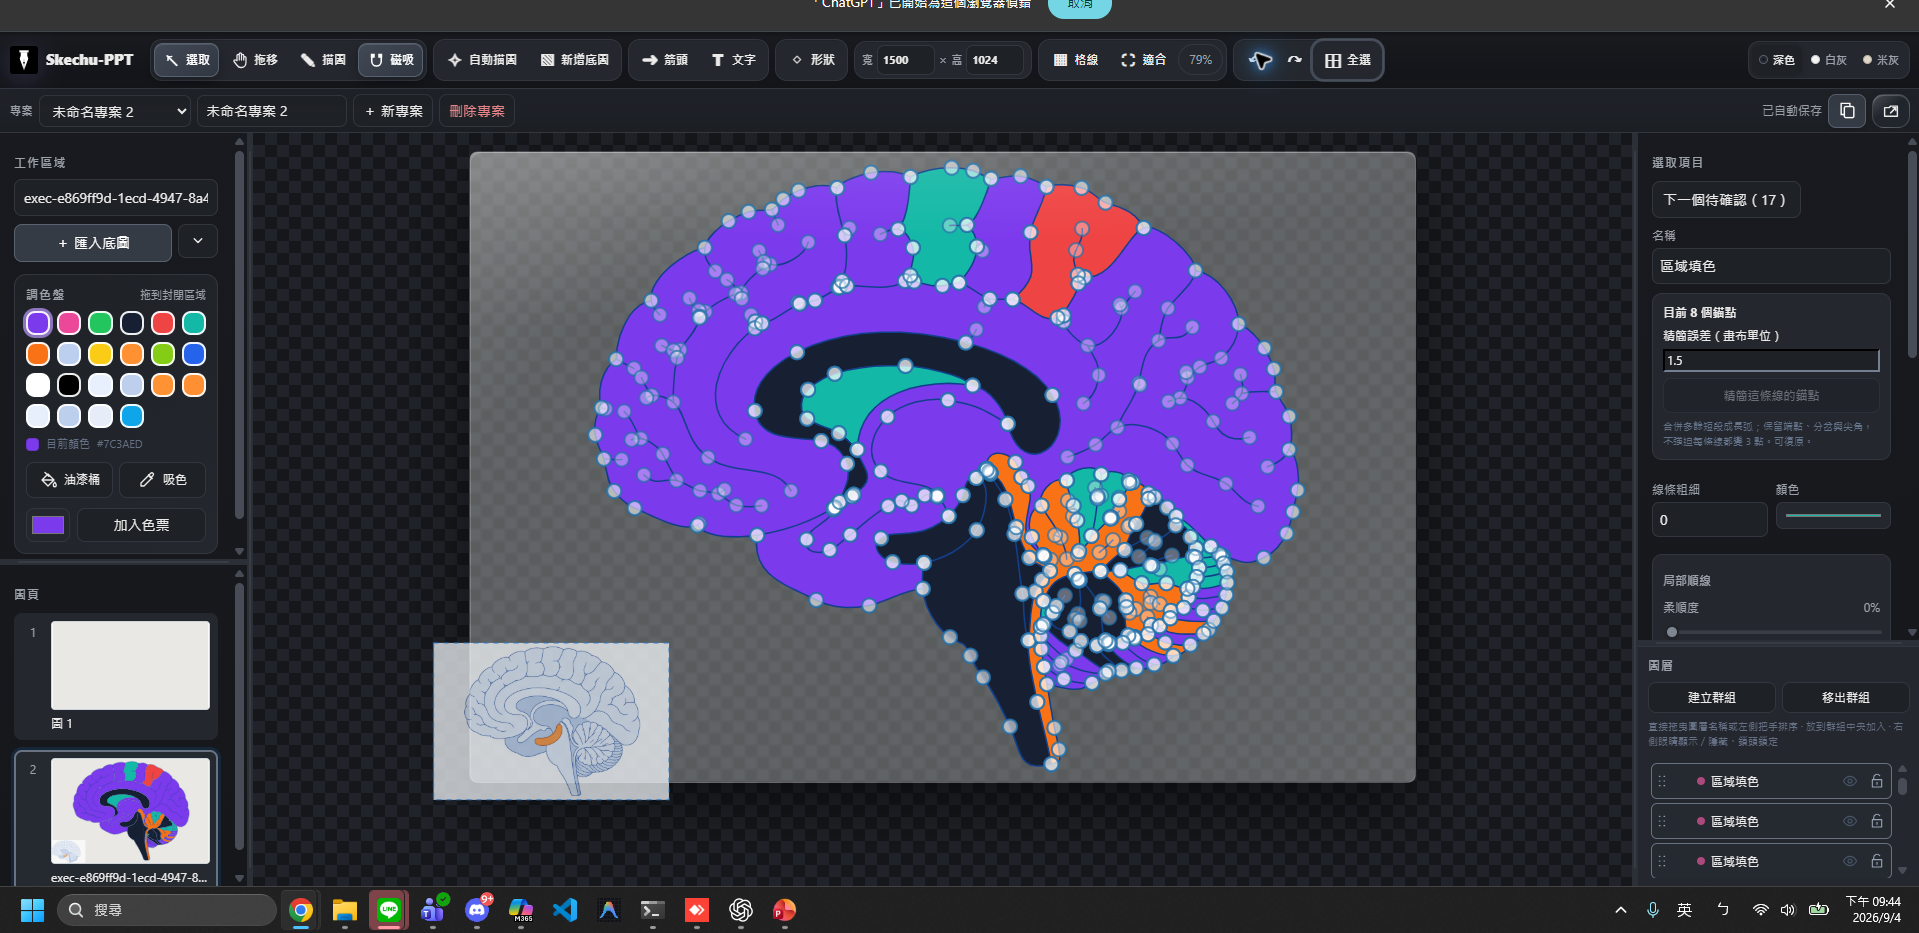
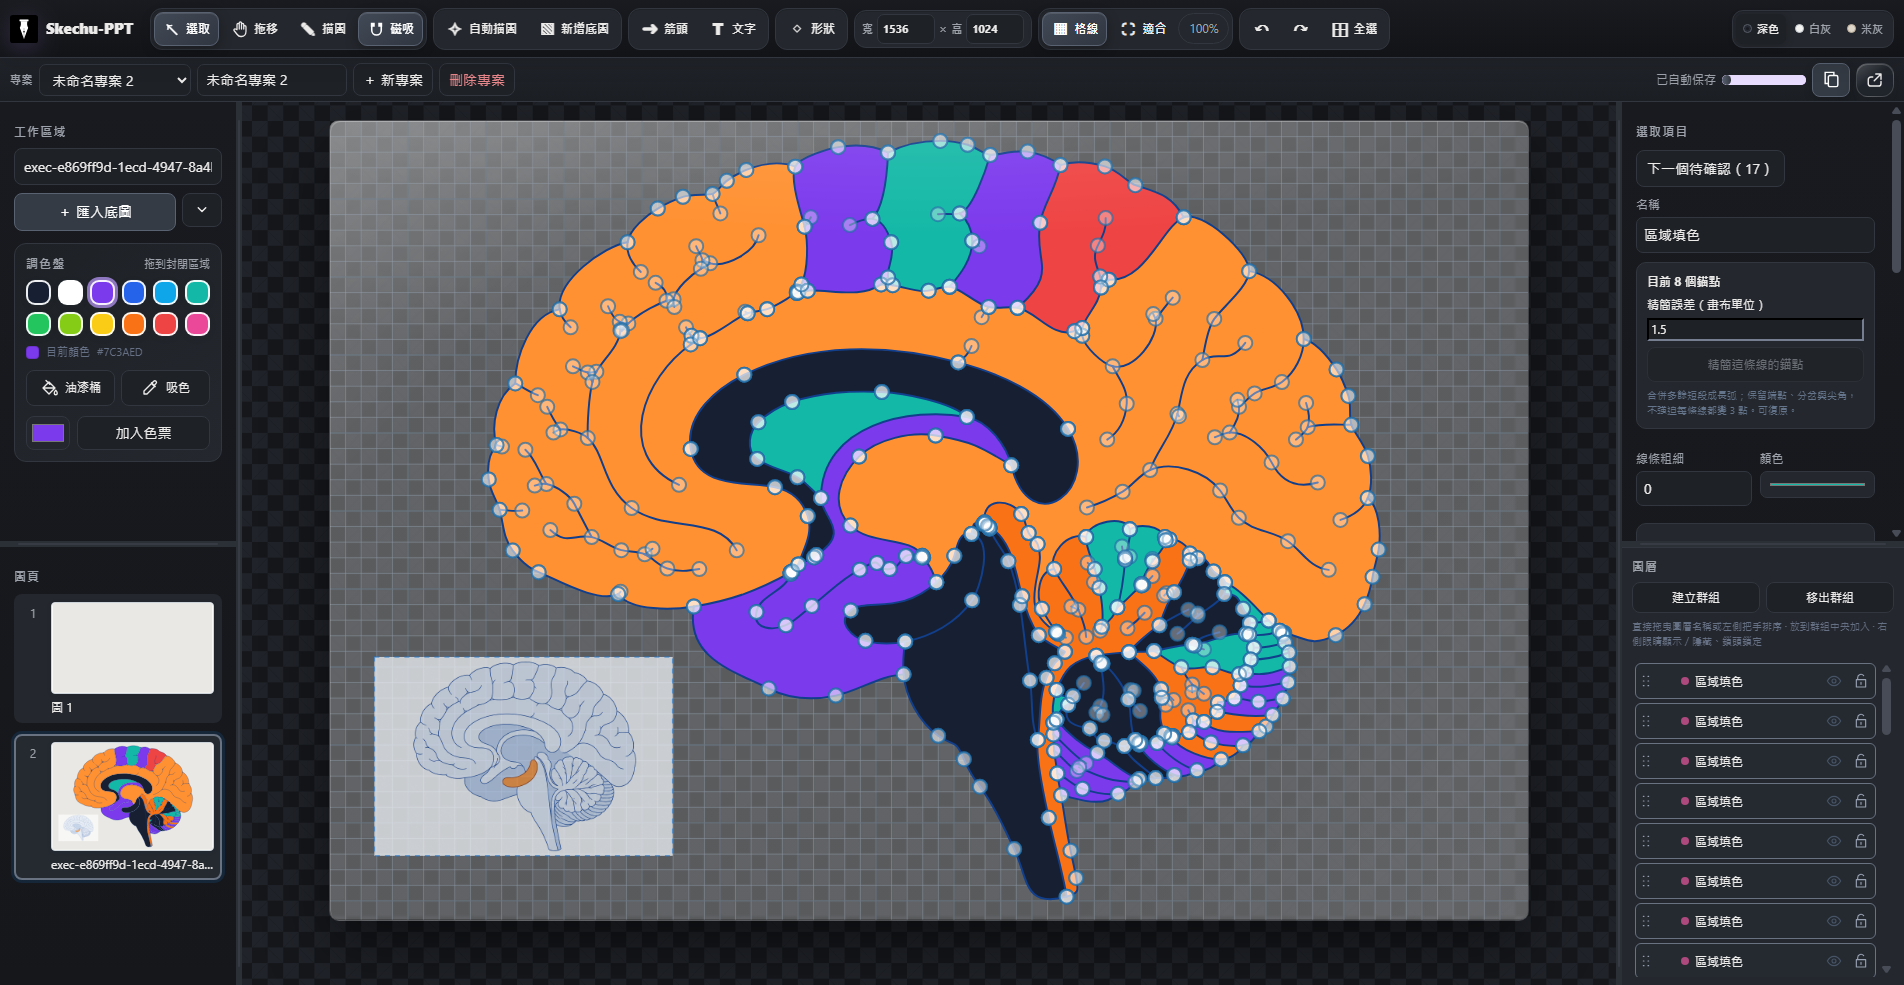
fix: restore page clicks and refresh showcase media

diff --git a/app/index.html b/app/index.html
@@ -51,7 +51,7 @@
   .workspace-page{transition-duration:180ms,140ms,180ms;transition-timing-function:cubic-bezier(.2,.8,.2,1),ease,ease}
   .workspace-page-ghost.settling{transition:opacity 100ms ease,transform 100ms ease;transform:scale(.99)}
 </style>
-<link rel="stylesheet" href="theme-controls.css?v=46-canvas-shapes">
+<link rel="stylesheet" href="theme-controls.css?v=47-grid-sync">
 <script>try{const savedTheme=localStorage.getItem('skechu-ui-theme');if(['graphite','mist','linen'].includes(savedTheme))document.documentElement.dataset.theme=savedTheme}catch{}</script>
 </head>
 <body>
@@ -147,7 +147,7 @@
 <script src="paint-tools.js?v=41-liquid-paper"></script>
 <script src="pan-tool.js"></script>
 <script src="selection-controls.js?v=26-left-marquee"></script>
-<script src="workspace-actions.js?v=35-stable-motion"></script>
+<script src="workspace-actions.js?v=36-page-click"></script>
 <script src="layer-controls.js?v=35-stable-motion"></script>
 <script src="panel-layout.js?v=1-resizable"></script>
 <script src="clipboard-controls.js?v=30-copy-priority"></script>
@@ -178,9 +178,11 @@ function overlayUnit(){const m=svg.getScreenCTM();return m?1/(Math.hypot(m.a,m.b
 // When enlarged hit circles overlap, choose the closest visible center.
 function closestSelectionHandle(event,fallback){if(!fallback)return null;let best=fallback,distance=Infinity;for(const el of selection.querySelectorAll('circle[data-handle]')){const r=el.getBoundingClientRect(),d=Math.hypot(event.clientX-r.x-r.width/2,event.clientY-r.y-r.height/2);if(d<=Math.min(r.width,r.height)/2&&d<distance){best=el;distance=d}}return best}
 function scaleSelectionOverlay(){const unit=overlayUnit();selection.querySelectorAll('circle').forEach(el=>el.setAttribute('r',Number(el.getAttribute('r'))*unit));selection.querySelectorAll('.point-tool').forEach(el=>el.setAttribute('transform',el.getAttribute('transform')+' scale('+unit+')'));selection.querySelectorAll('.trace-join-label').forEach(el=>{const x=Number(el.getAttribute('x')),y=Number(el.getAttribute('y'));el.setAttribute('x',x-12+12*unit);el.setAttribute('y',y+12-12*unit);el.style.fontSize=13*unit+'px'})}
-new ResizeObserver(()=>renderSelection()).observe(stageShell);
-function fitView(){resetCanvasPan();zoom=1;baseStageWidth=Math.min(1200,Math.max(320,stageWrap.clientWidth-36));stageShell.style.width=baseStageWidth+'px';stageWrap.scrollLeft=0;stageWrap.scrollTop=0;document.getElementById('zoom-label').textContent='100%';renderSelection()}
-function applyZoom(next,cx=stageWrap.clientWidth/2,cy=stageWrap.clientHeight/2){const old=zoom;zoom=clamp(next,.35,5);const ratio=zoom/old;const targetLeft=(stageWrap.scrollLeft+cx-canvasPan.x)*ratio-cx+canvasPan.x,targetTop=(stageWrap.scrollTop+cy-canvasPan.y)*ratio-cy+canvasPan.y;stageShell.style.width=(baseStageWidth*zoom)+'px';requestAnimationFrame(()=>{stageWrap.scrollLeft=targetLeft;stageWrap.scrollTop=targetTop});document.getElementById('zoom-label').textContent=Math.round(zoom*100)+'%';renderSelection()}
+const CANVAS_GRID_STEP=20;
+function syncCheckerGrid(){const size=canvasSize(),canvasRect=svg.getBoundingClientRect(),wrapRect=stageWrap.getBoundingClientRect();if(!canvasRect.width||!size.width)return;const cell=canvasRect.width/size.width*CANVAS_GRID_STEP,x=canvasRect.left-wrapRect.left+stageWrap.scrollLeft,y=canvasRect.top-wrapRect.top+stageWrap.scrollTop;stageWrap.style.setProperty('--checker-cell',`${cell}px`);stageWrap.style.setProperty('--checker-tile',`${cell*2}px`);stageWrap.style.setProperty('--checker-x',`${x}px`);stageWrap.style.setProperty('--checker-y',`${y}px`)}
+new ResizeObserver(()=>{renderSelection();syncCheckerGrid()}).observe(stageShell);
+function fitView(){resetCanvasPan();zoom=1;baseStageWidth=Math.min(1200,Math.max(320,stageWrap.clientWidth-36));stageShell.style.width=baseStageWidth+'px';stageWrap.scrollLeft=0;stageWrap.scrollTop=0;document.getElementById('zoom-label').textContent='100%';renderSelection();syncCheckerGrid()}
+function applyZoom(next,cx=stageWrap.clientWidth/2,cy=stageWrap.clientHeight/2){const old=zoom;zoom=clamp(next,.35,5);const ratio=zoom/old;const targetLeft=(stageWrap.scrollLeft+cx-canvasPan.x)*ratio-cx+canvasPan.x,targetTop=(stageWrap.scrollTop+cy-canvasPan.y)*ratio-cy+canvasPan.y;stageShell.style.width=(baseStageWidth*zoom)+'px';requestAnimationFrame(()=>{stageWrap.scrollLeft=targetLeft;stageWrap.scrollTop=targetTop;syncCheckerGrid()});document.getElementById('zoom-label').textContent=Math.round(zoom*100)+'%';renderSelection()}
 stageWrap.addEventListener('wheel',e=>{e.preventDefault();const rect=stageWrap.getBoundingClientRect();wheelCx=e.clientX-rect.left;wheelCy=e.clientY-rect.top;wheelFactor*=e.deltaY<0?1.12:.89;if(!wheelFrame)wheelFrame=requestAnimationFrame(()=>{applyZoom(zoom*wheelFactor,wheelCx,wheelCy);wheelFactor=1;wheelFrame=0})},{passive:false});
 document.getElementById('fit-view').onclick=fitView;
 function state(){return JSON.stringify(items)}
@@ -507,7 +509,7 @@ document.getElementById('select-tool').onclick=activateSelectTool;document.getEl
 document.getElementById('add-arrow-point').onclick=()=>addNodeToSelected(false);document.getElementById('remove-arrow-point').onclick=()=>removeNodeFromSelected(2);document.getElementById('add-poly-point').onclick=()=>addNodeToSelected(true);document.getElementById('remove-poly-point').onclick=()=>removeNodeFromSelected(3);
 document.getElementById('show-assets').onclick=()=>{workspace.classList.toggle('show-assets');workspace.classList.remove('show-inspector')};
 document.getElementById('show-inspector').onclick=()=>{workspace.classList.toggle('show-inspector');workspace.classList.remove('show-assets')};
-function renderCanvasGrid(){const size=canvasSize(),step=20;gridLayer.innerHTML=gridOn?Array.from({length:Math.floor(size.width/step)-1},(_,i)=>{const x=(i+1)*step;return`<line class="guide${x%100===0?' major':''}" x1="${x}" y1="0" x2="${x}" y2="${size.height}"/>`}).join('')+Array.from({length:Math.floor(size.height/step)-1},(_,i)=>{const y=(i+1)*step;return`<line class="guide${y%100===0?' major':''}" x1="0" y1="${y}" x2="${size.width}" y2="${y}"/>`}).join(''):''}
+function renderCanvasGrid(){const size=canvasSize(),step=CANVAS_GRID_STEP;gridLayer.innerHTML=gridOn?Array.from({length:Math.floor(size.width/step)-1},(_,i)=>{const x=(i+1)*step;return`<line class="guide${x%100===0?' major':''}" x1="${x}" y1="0" x2="${x}" y2="${size.height}"/>`}).join('')+Array.from({length:Math.floor(size.height/step)-1},(_,i)=>{const y=(i+1)*step;return`<line class="guide${y%100===0?' major':''}" x1="0" y1="${y}" x2="${size.width}" y2="${y}"/>`}).join(''):'';syncCheckerGrid()}
 document.getElementById('toggle-grid').onclick=()=>{gridOn=!gridOn;const button=document.getElementById('toggle-grid');button.classList.toggle('active',gridOn);button.setAttribute('aria-pressed',String(gridOn));renderCanvasGrid();document.getElementById('status').textContent=gridOn?'畫布格線已開啟':'畫布格線已關閉'};
 document.getElementById('delete').onclick=()=>{const ids=new Set(items.filter(it=>selectedIds.has(it.id)&&!it.locked).map(it=>it.id));if(!ids.size)return;commit();items=items.filter(x=>!ids.has(x.id));selected=null;selectedIds.clear();selectedPoints.clear();render()};
 document.getElementById('duplicate').onclick=()=>{if(copyInternalSelection())pasteInternalSelection()};

diff --git a/app/theme-controls.css b/app/theme-controls.css
@@ -46,7 +46,7 @@ button.primary,.tool-button.active{background:var(--control);border-color:var(--
 .panel-resizer{background:var(--surface-3)}.panel-resizer::after{background:var(--line-strong)}
 .workspace-page{background:var(--surface-2);color:var(--ink)}.workspace-page:hover{background:var(--surface-3)}.workspace-page.active{background:var(--accent-soft);border-color:var(--accent)}
 .workspace-page-ghost{background:color-mix(in srgb,var(--surface) 92%,transparent);border-color:var(--accent);box-shadow:var(--shadow-float)}
-.stage-wrap{background-color:var(--canvas-desk);background-image:linear-gradient(45deg,var(--grid-tile) 25%,transparent 25%),linear-gradient(-45deg,var(--grid-tile) 25%,transparent 25%),linear-gradient(45deg,transparent 75%,var(--grid-tile) 75%),linear-gradient(-45deg,transparent 75%,var(--grid-tile) 75%)}
+.stage-wrap{--checker-cell:12px;--checker-tile:24px;--checker-x:0px;--checker-y:0px;background-color:var(--canvas-desk);background-image:linear-gradient(45deg,var(--grid-tile) 25%,transparent 25%),linear-gradient(-45deg,var(--grid-tile) 25%,transparent 25%),linear-gradient(45deg,transparent 75%,var(--grid-tile) 75%),linear-gradient(-45deg,transparent 75%,var(--grid-tile) 75%);background-size:var(--checker-tile) var(--checker-tile);background-position:var(--checker-x) var(--checker-y),var(--checker-x) calc(var(--checker-y) + var(--checker-cell)),calc(var(--checker-x) + var(--checker-cell)) calc(var(--checker-y) - var(--checker-cell)),calc(var(--checker-x) - var(--checker-cell)) var(--checker-y);background-attachment:local,local,local,local}
 .stage-shell{position:relative;isolation:isolate;overflow:visible;border:1px solid var(--glass-edge);border-radius:10px;background:radial-gradient(120% 80% at 12% -8%,var(--glass-shine),transparent 45%),rgba(255,255,255,.018);box-shadow:0 24px 56px rgba(22,26,31,.22),inset 0 1px 0 rgba(255,255,255,.42),inset 0 -1px 0 rgba(20,24,28,.12);backdrop-filter:blur(1.15px) saturate(104%);-webkit-backdrop-filter:blur(1.15px) saturate(104%)}
 .stage-shell::before{content:"";position:absolute;inset:0;z-index:2;pointer-events:none;border-radius:inherit;background:linear-gradient(132deg,rgba(255,255,255,.18),transparent 18% 76%,rgba(255,255,255,.07)),radial-gradient(80% 20% at 50% 0,rgba(255,255,255,.13),transparent 70%);box-shadow:inset 1px 1px 0 rgba(255,255,255,.25),inset -1px -1px 0 rgba(18,21,25,.1);mix-blend-mode:screen;opacity:.72}
 .stage-shell::after{content:"";position:absolute;inset:0;z-index:0;pointer-events:none;border-radius:inherit;background:linear-gradient(180deg,rgba(255,255,255,.035),rgba(20,24,28,.018));opacity:.58}
@@ -83,7 +83,7 @@ html[data-theme="graphite"] .sidebar,html[data-theme="graphite"] .inspector{back
 html[data-theme="graphite"] .tool-button.active,html[data-theme="graphite"] button.primary{color:#fff;background:linear-gradient(145deg,#414956,#313741);border-color:#596271;box-shadow:0 4px 13px rgba(0,0,0,.28),inset 0 1px 0 rgba(255,255,255,.11)}
 html[data-theme="graphite"] .page-tab.active{color:#ded1ff}
 html[data-theme="graphite"] input[type="color"]{background:var(--surface-2)}
-html[data-theme="graphite"] .stage-wrap{background-color:var(--canvas-desk);background-image:linear-gradient(45deg,var(--grid-tile) 25%,transparent 25%),linear-gradient(-45deg,var(--grid-tile) 25%,transparent 25%),linear-gradient(45deg,transparent 75%,var(--grid-tile) 75%),linear-gradient(-45deg,transparent 75%,var(--grid-tile) 75%);background-size:24px 24px;background-position:0 0,0 12px,12px -12px,-12px 0}
+html[data-theme="graphite"] .stage-wrap{background-color:var(--canvas-desk);background-image:linear-gradient(45deg,var(--grid-tile) 25%,transparent 25%),linear-gradient(-45deg,var(--grid-tile) 25%,transparent 25%),linear-gradient(45deg,transparent 75%,var(--grid-tile) 75%),linear-gradient(-45deg,transparent 75%,var(--grid-tile) 75%)}
 html[data-theme="graphite"] #stage-background{fill:var(--paper-fill);fill-opacity:.3}
 html[data-theme="graphite"] .workspace-page-preview>rect:first-child{fill:#e9e8e4}
 html[data-theme="graphite"] .stage-shell{box-shadow:0 26px 64px rgba(0,0,0,.48),inset 0 1px 0 rgba(255,255,255,.18),inset 0 -1px 0 rgba(0,0,0,.28)}

diff --git a/app/workspace-actions.js b/app/workspace-actions.js
@@ -119,7 +119,7 @@ function clearPageDragVisual(gesture,settle=false){
 function finishPagePointer(event,cancel=false) {
   const gesture=pagePointerDrag;if(!gesture||event&&event.pointerId!==gesture.pointerId)return;
   pagePointerDrag=null;const pages=document.getElementById('workspace-pages');pages.querySelectorAll('[data-drop]').forEach(card=>card.removeAttribute('data-drop'));
-  if(pages.hasPointerCapture(gesture.pointerId))pages.releasePointerCapture(gesture.pointerId);
+  const captureOwner=gesture.card;if(captureOwner?.hasPointerCapture?.(gesture.pointerId))captureOwner.releasePointerCapture(gesture.pointerId);
   suppressPageClick=!cancel&&gesture.moved;
   const moved=!cancel&&gesture.moved&&gesture.target&&movePageByPointer(gesture.source,gesture.target,gesture.position);clearPageDragVisual(gesture,!!moved);
 }
@@ -232,7 +232,7 @@ function initializeWorkspaceActions() {
   const menu = document.getElementById('page-context-menu'), pages = document.getElementById('workspace-pages');
   pages.addEventListener('click',event=>{if(!suppressPageClick)return;suppressPageClick=false;event.preventDefault();event.stopImmediatePropagation()},true);
   pages.addEventListener('pointerdown',event=>{const card=event.target.closest('[data-page-id]');if(event.button!==0||!card||pagePointerDrag)return;
-    pagePointerDrag={pointerId:event.pointerId,source:card.dataset.pageId,x:event.clientX,y:event.clientY,moved:false,target:null,card};pages.setPointerCapture(event.pointerId)});
+    pagePointerDrag={pointerId:event.pointerId,source:card.dataset.pageId,x:event.clientX,y:event.clientY,moved:false,target:null,card};card.setPointerCapture?.(event.pointerId)});
   pages.addEventListener('pointermove',event=>{const gesture=pagePointerDrag;if(!gesture||gesture.pointerId!==event.pointerId)return;
     if(!gesture.moved&&Math.hypot(event.clientX-gesture.x,event.clientY-gesture.y)<8)return;
     event.preventDefault();gesture.moved=true;if(!gesture.ghost)beginPageDragVisual(gesture,event);const bounds=pages.getBoundingClientRect();if(event.clientY<bounds.top+30)pages.scrollTop-=18;else if(event.clientY>bounds.bottom-30)pages.scrollTop+=18;

diff --git a/app/service-worker.js b/app/service-worker.js
@@ -1,16 +1,16 @@
-const CACHE_NAME = 'skechu-ppt-v46-canvas-shapes';
+const CACHE_NAME = 'skechu-ppt-v47-page-grid';
 const APP_SHELL = [
   './',
   './index.html',
   './theme-controls.js?v=46-canvas-shapes',
-  './theme-controls.css?v=46-canvas-shapes',
+  './theme-controls.css?v=47-grid-sync',
   './local-smoothing.js',
   './region-fill.js',
   './paint-layers.js?v=22-visibility-web-native',
   './paint-tools.js?v=41-liquid-paper',
   './pan-tool.js',
   './selection-controls.js?v=26-left-marquee',
-  './workspace-actions.js?v=35-stable-motion',
+  './workspace-actions.js?v=36-page-click',
   './layer-controls.js?v=35-stable-motion',
   './panel-layout.js?v=1-resizable',
   './layer-controls.css?v=35-stable-motion',

diff --git a/README.md b/README.md
@@ -26,6 +26,12 @@
 
 ## See it at a glance
 
+<p align="center">
+  <img src="docs/media/editor-workflow.gif" width="960" alt="A clean recording of Skechu-PPT showing the finished vector, aligned grid, editable anchors, and shape menu">
+</p>
+
+<p align="center"><sub>Actual browser UI: finished vector → aligned grid → Ctrl+A anchor editing → shape picker.</sub></p>
+
 | ✦ **Auto trace** | 🧲 **Magnetic pen** | ◉ **Anchor editing** | 🪣 **Paint bucket** |
 | :---: | :---: | :---: | :---: |
 | Image → editable paths | Follow visible boundaries | Refine every curve | Fill closed regions |
